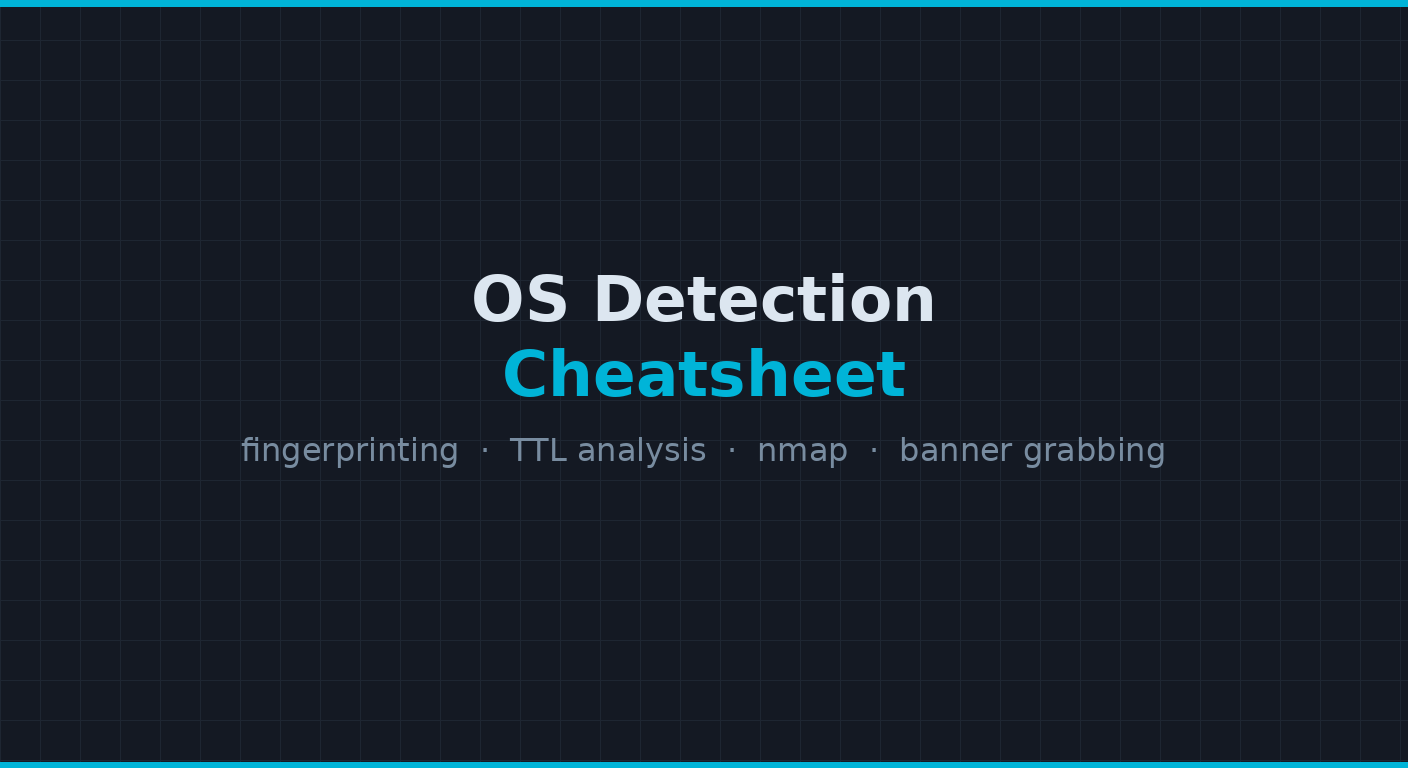
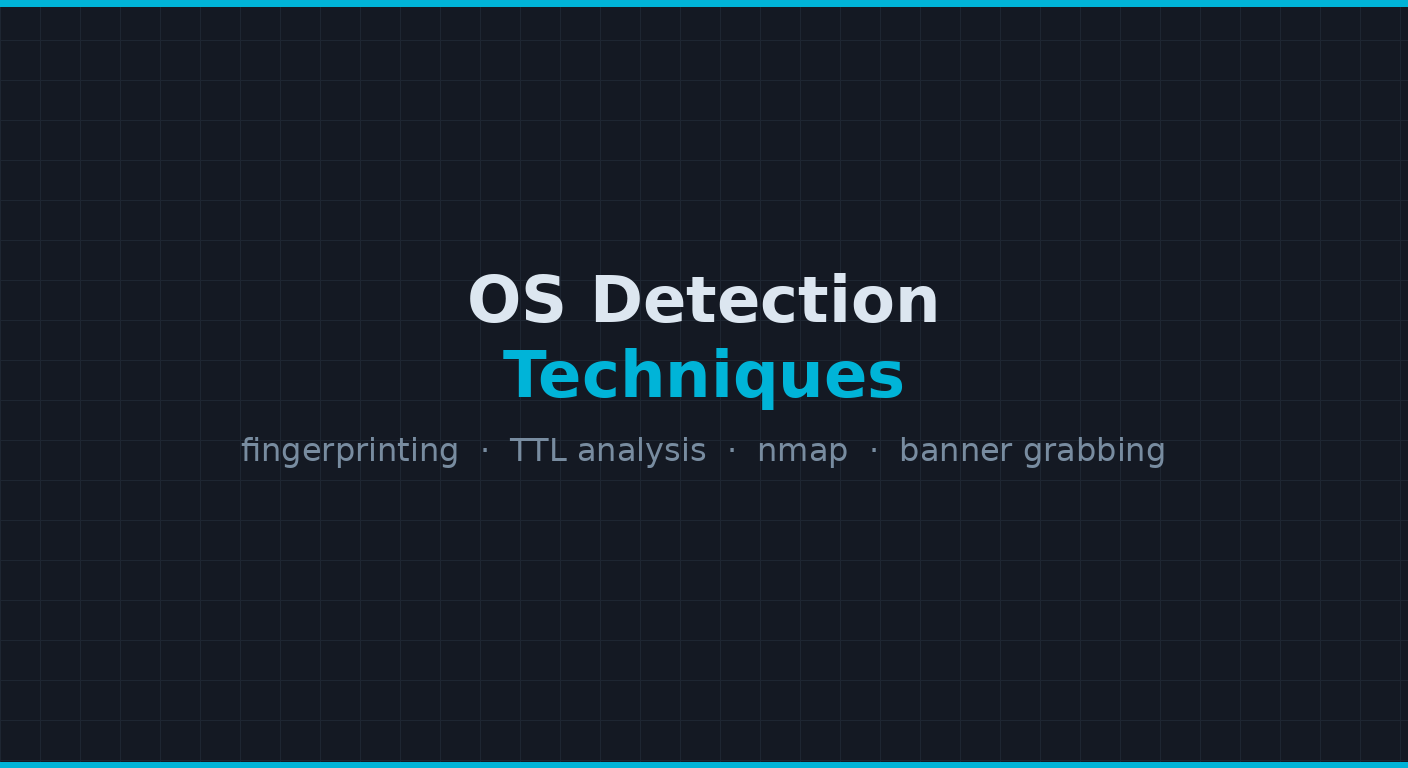
Rename post from cheatsheet to techniques

Changed region(s): [[0.3125, 0.3438, 0.6875, 0.5312]]

diff --git a/_posts/2026-07-30-os-detection-techniques.md b/_posts/2026-07-30-os-detection-techniques.md
@@ -1,5 +1,5 @@
 ---
-title: "OS Detection Cheatsheet: TTL, Nmap, and Banner Grabbing"
+title: "OS Detection Techniques: TTL, Nmap, and Banner Grabbing"
 description: A practical guide to identifying operating systems through software versions, port analysis, TTL values, and Nmap fingerprinting.
 date: 2026-08-03 00:00:00 +0000
 categories: [Security, Reconnaissance]
